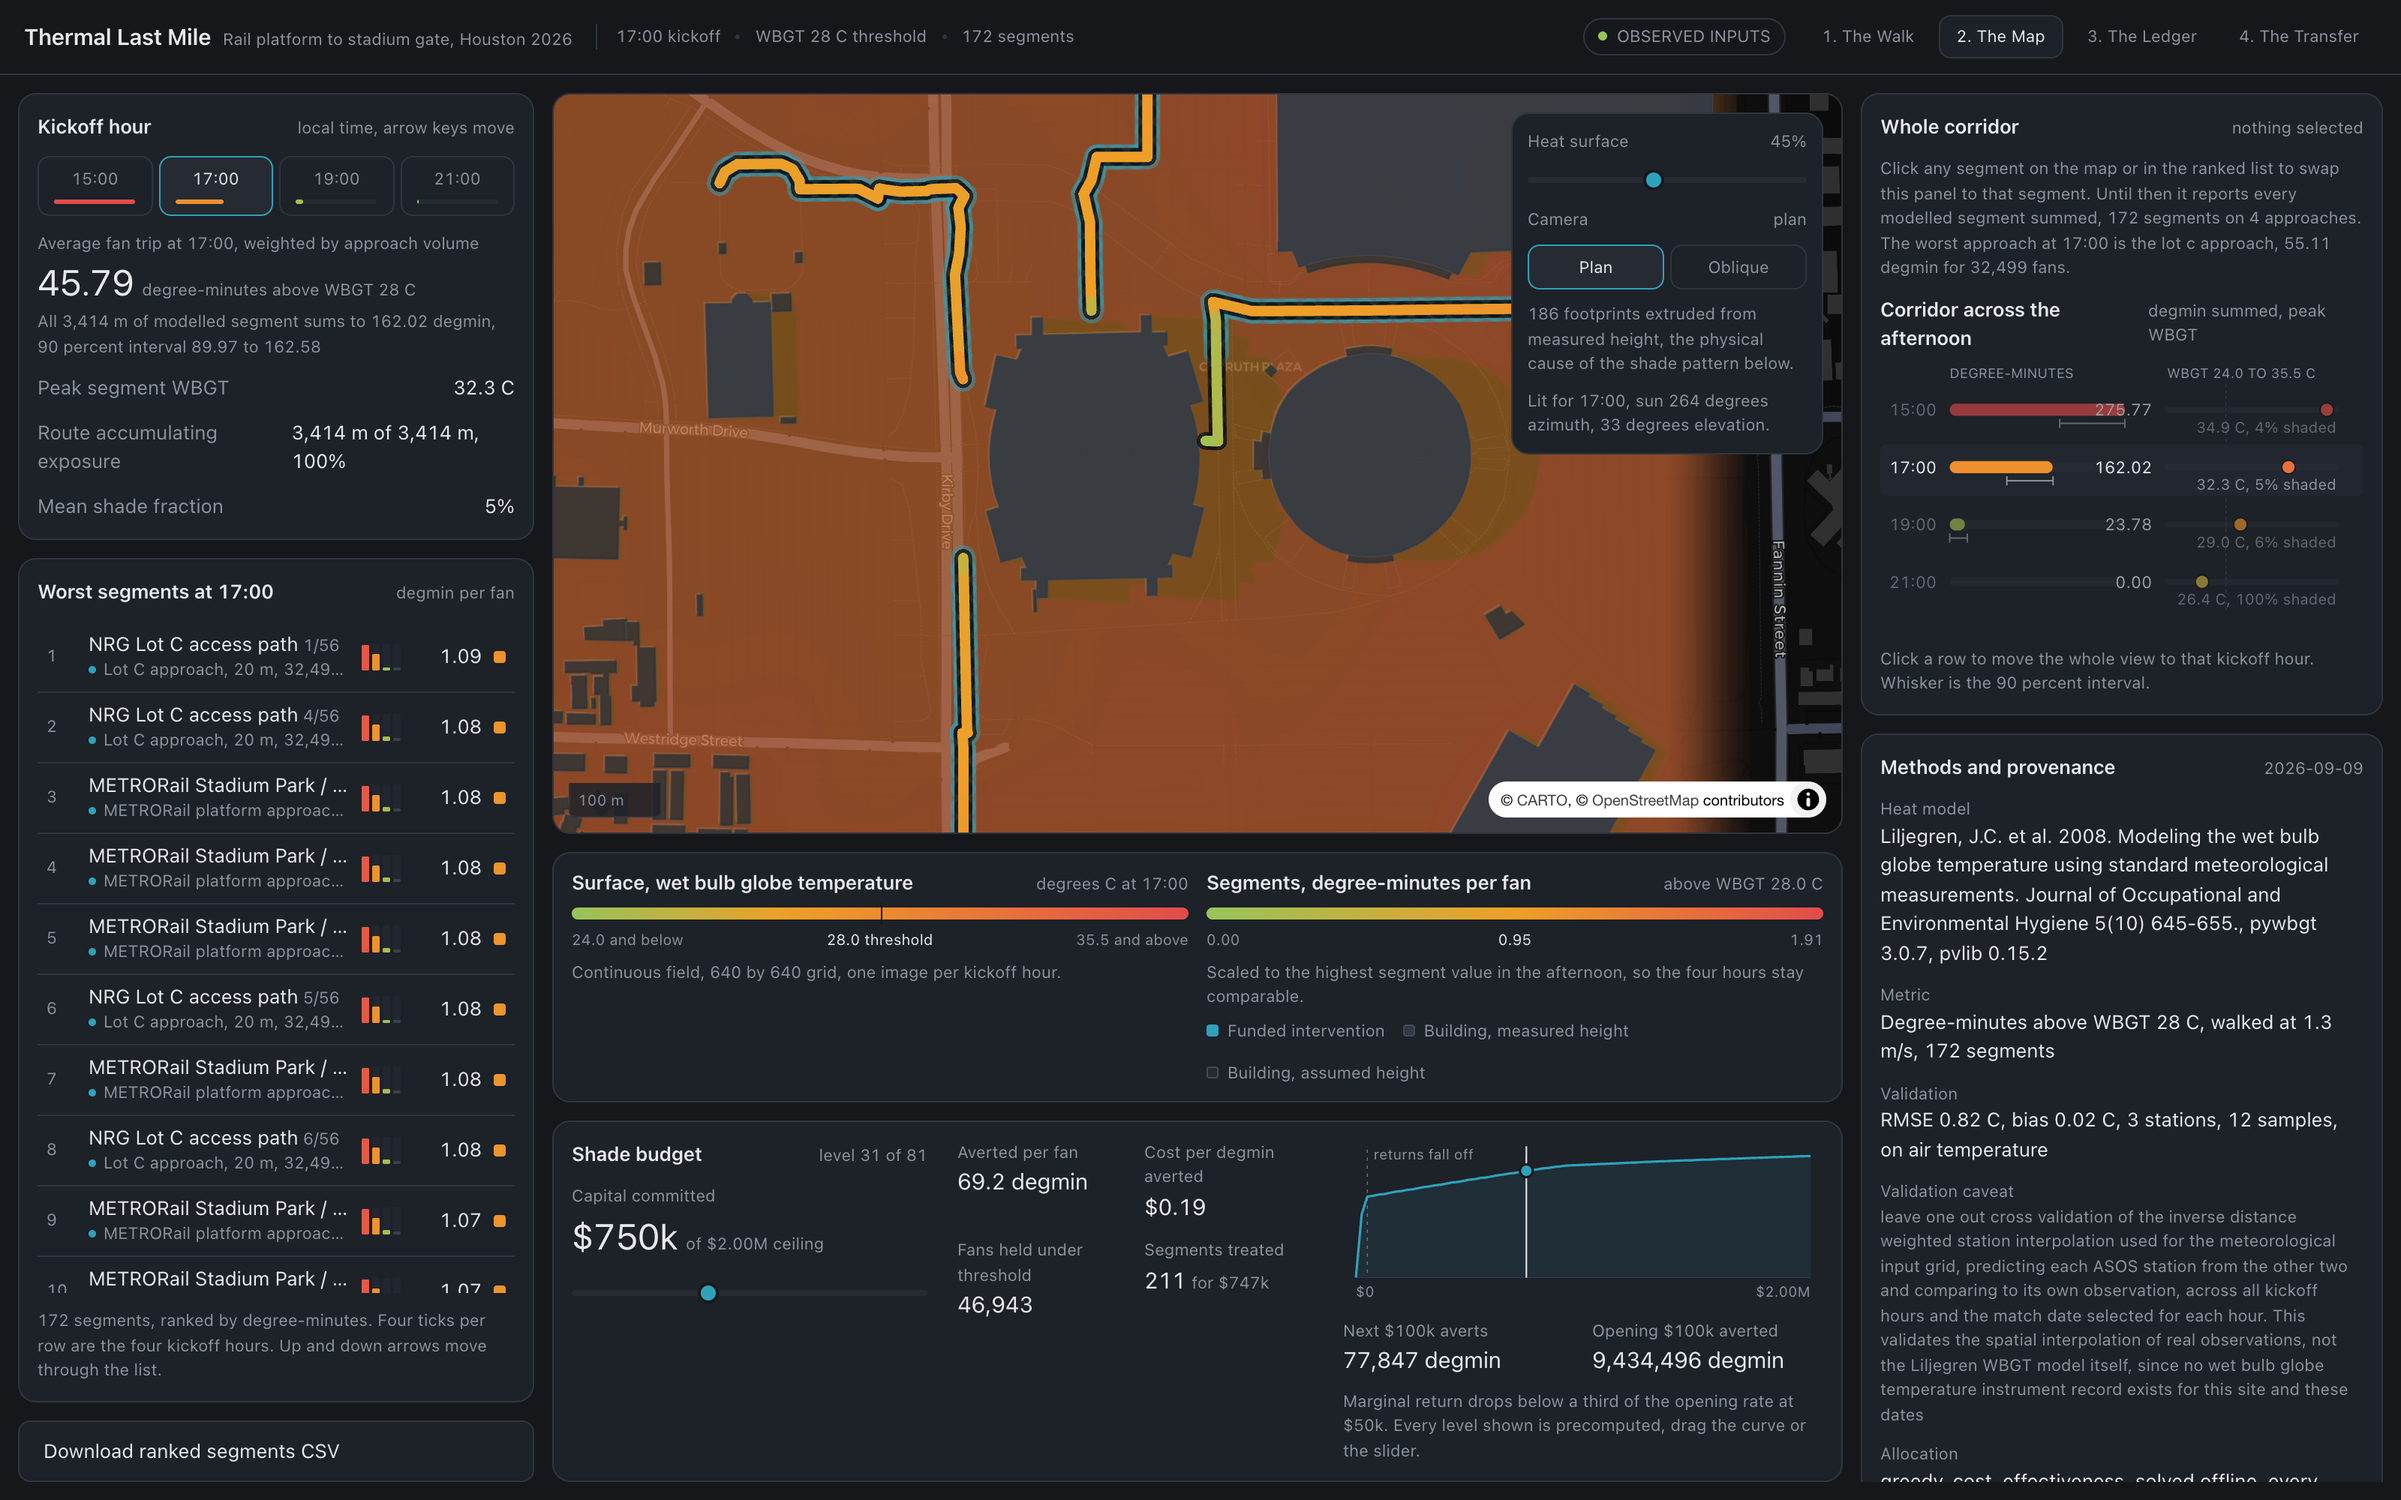
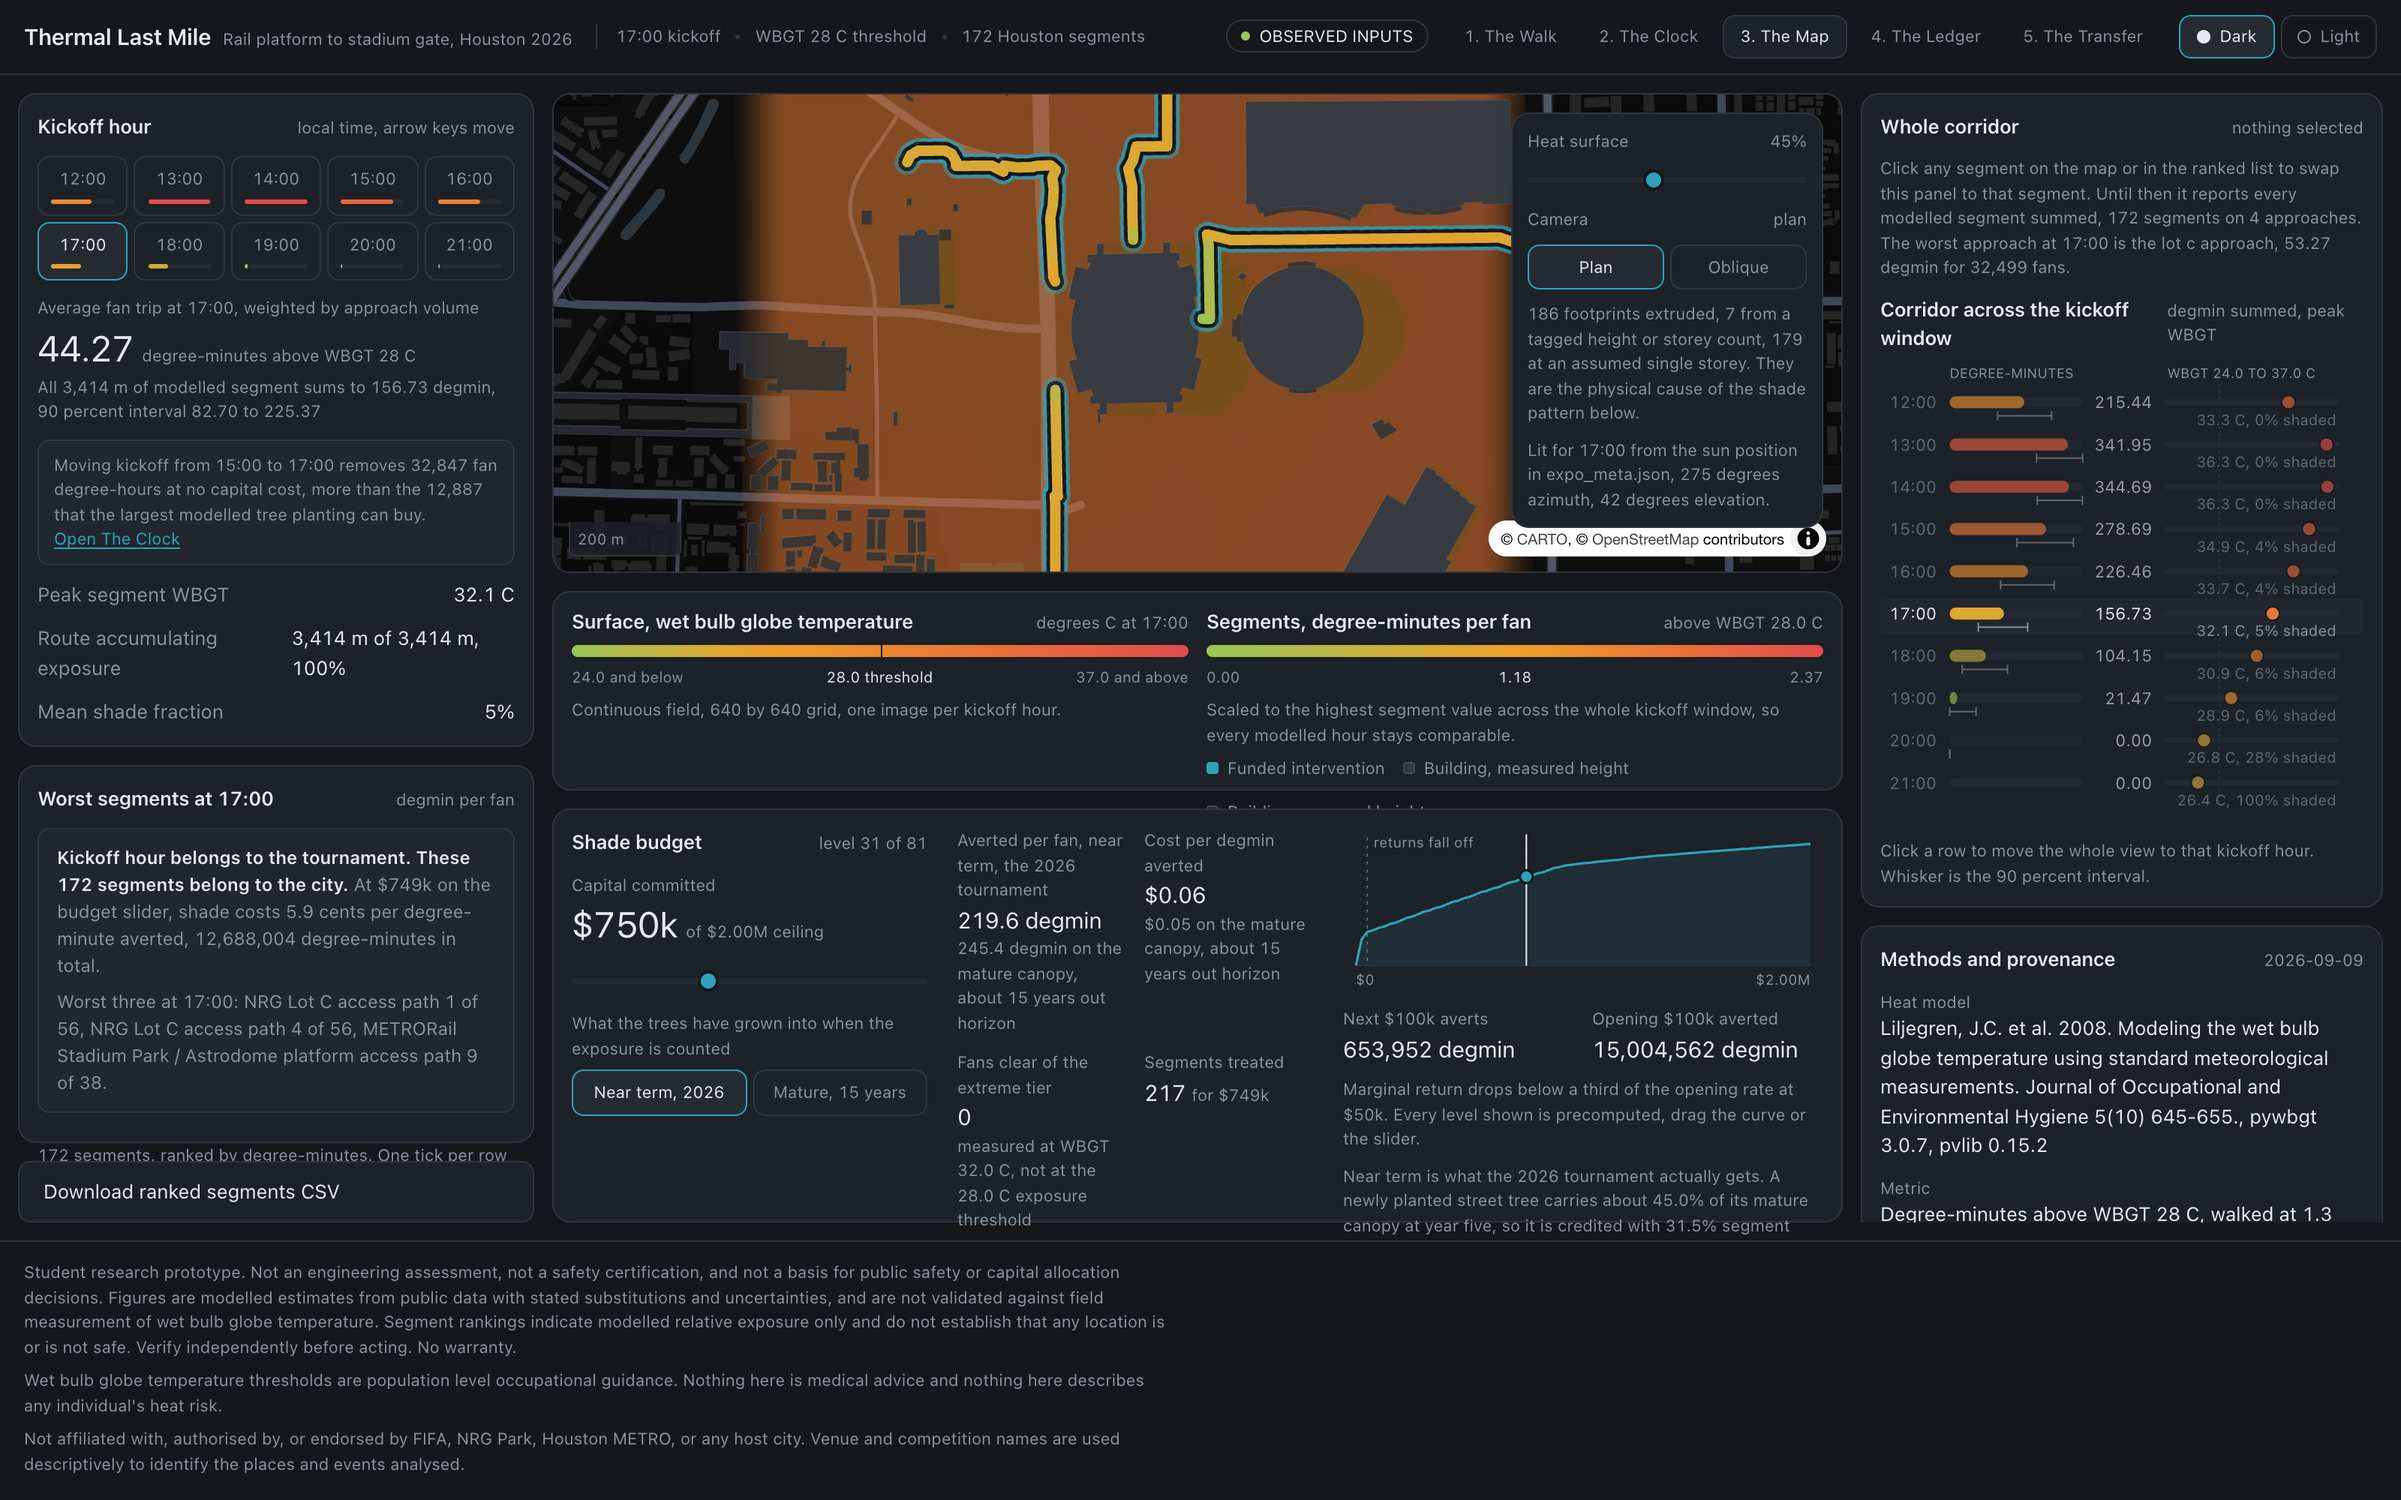
Reconcile headline figures and recompute the aggregate uncertainty band

diff --git a/docs/validation.md b/docs/validation.md
@@ -88,12 +88,18 @@ its `degmin` for that hour, divided by 60 (`pipeline/s10_kickoff.py`,
 `fan_hours_above_threshold`). Substituting `degmin_lo` and `degmin_hi` for `degmin` in that
 same formula gives an honest low and high aggregate. Doing this for the 15:00 baseline
 kickoff gives approximately 50,000 to 93,000 fan-degree-hours around the central estimate
-reported in `data/out/kickoff_clock.json` (`hours.15.fan_hours_above_threshold`). For the
-7 scheduled Houston matches summed (`data/out/kickoff_clock.json`,
-`as_scheduled.tournament_total_fan_hours_above_threshold`), the same substitution gives
-approximately 210,000 to 475,000 fan-degree-hours around the central figure. Both bands
-are wide, and a hinge function like degree-minutes above a fixed threshold has a large
-local condition number, so a wide band here is the honest result of the underlying
+reported in `data/out/kickoff_clock.json` (`hours.15.fan_hours_above_threshold`).
+
+Evaluating that same hour sweep at the seven real kickoff hours gives a central 352,554
+with a band of 224,057 to 493,735, which is minus 36 percent and plus 40 percent. That
+band is indicative for the measured tournament total of 297,665 rather than computed on
+it, because the retrospective in `data/out/retrospective.json` uses each match's own
+observed weather while the sweep uses one representative date per hour. The two are
+different quantities and the sweep total is the larger of them, so the band should be read
+as a scale for the uncertainty rather than as bounds on the measured figure.
+
+Both bands are wide, and a hinge function like degree-minutes above a fixed threshold has
+a large local condition number, so a wide band here is the honest result of the underlying
 physics, not a sign the model is loosely built.
 
 ## Substitutions made in place of measured or licensed inputs, and their expected bias

diff --git a/README.md b/README.md
@@ -8,7 +8,7 @@ measures it. This project measures it, ranks every sidewalk segment by how much
 dangerous heat a fan actually absorbs crossing it, and reports where a fixed shade
 budget removes the most exposure per dollar.
 
-The measured result: **297,664 fan-degree-hours above the heat stress limit accumulated on the last mile across the seven NRG matches of 14 June to 4 July 2026, measured against each match's own observed weather. Six of the seven kicked off at noon, and 91.7 percent of the total traces to that. The one match played at 19:00 stayed below the threshold.**
+The measured result: **297,665 fan-degree-hours above the heat stress limit accumulated on the last mile across the seven NRG matches of 14 June to 4 July 2026, measured against each match's own observed weather. Six of the seven kicked off at noon, and 91.7 percent of the total traces to that. The one match played at 19:00 stayed below the threshold.**
 
 The unit is degree-hours, not hours. It is the accumulated excess of wet bulb globe
 temperature above the threshold, integrated over the time each person spends walking.

diff --git a/docs/narrative.md b/docs/narrative.md
@@ -253,7 +253,7 @@ even at a fixed kickoff hour, which a generalized sweep by construction cannot s
 matches, it recomputes that same date's exposure at 19:00 instead, the hour the one
 already-evening match actually used, holding that date's own observed weather fixed and
 changing only the clock hour and the resulting sun geometry and shade. Across the six noon
-matches, this counterfactual removes 261,784 of the 297,665 tournament-wide fan-degree-hours,
+matches, this counterfactual removes 273,066 of the 297,665 tournament-wide fan-degree-hours,
 **91.7 percent**, at zero capital cost, purely from moving kickoff to an hour NRG had
 already used once during this same tournament
 (`data/out/retrospective.json`, `counterfactual_evening_kickoff.totals`). This is not a
